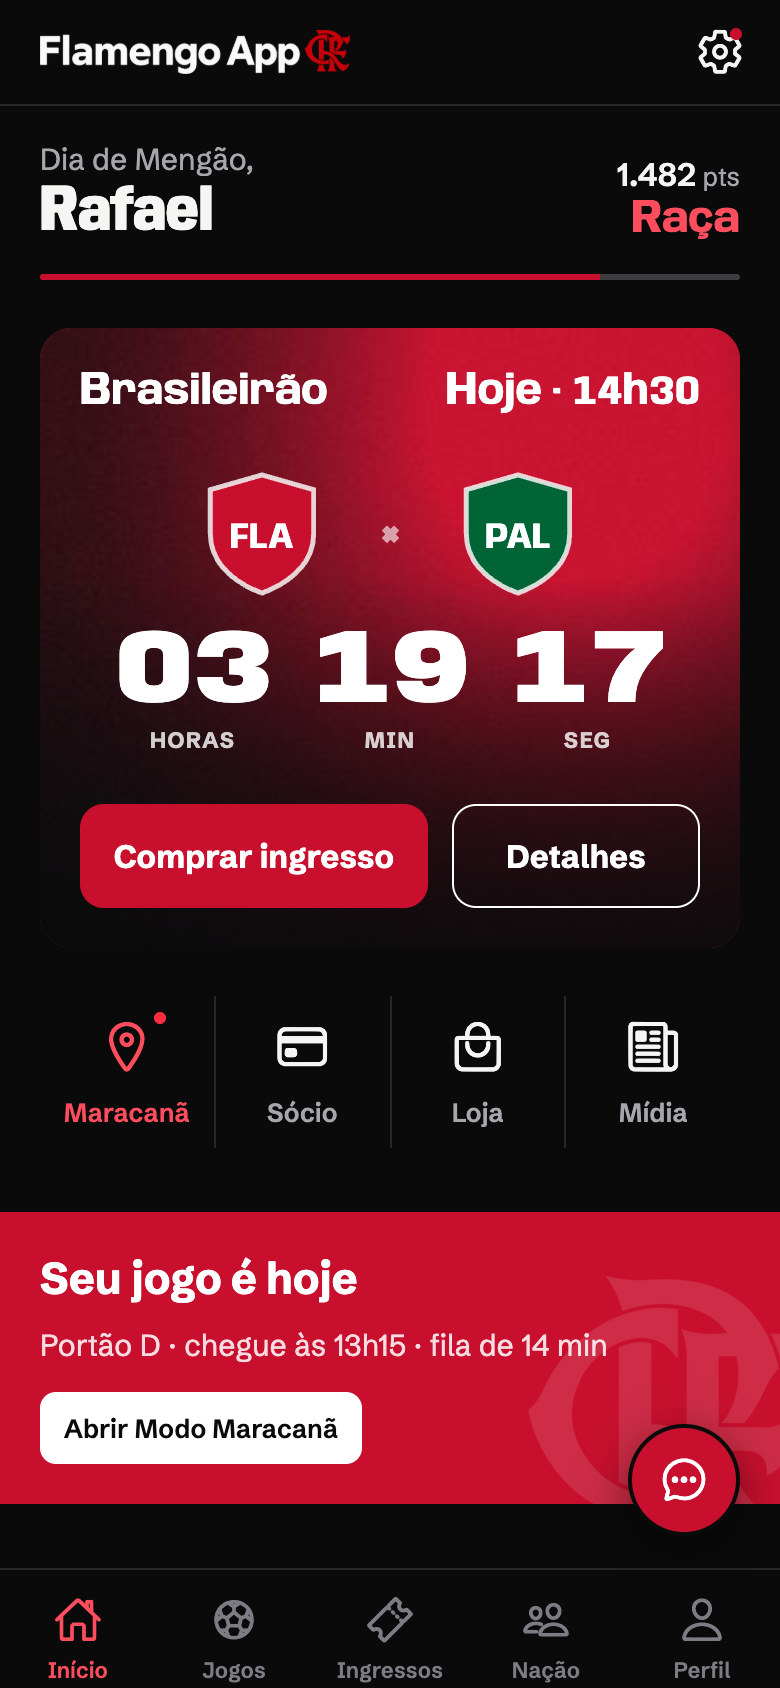
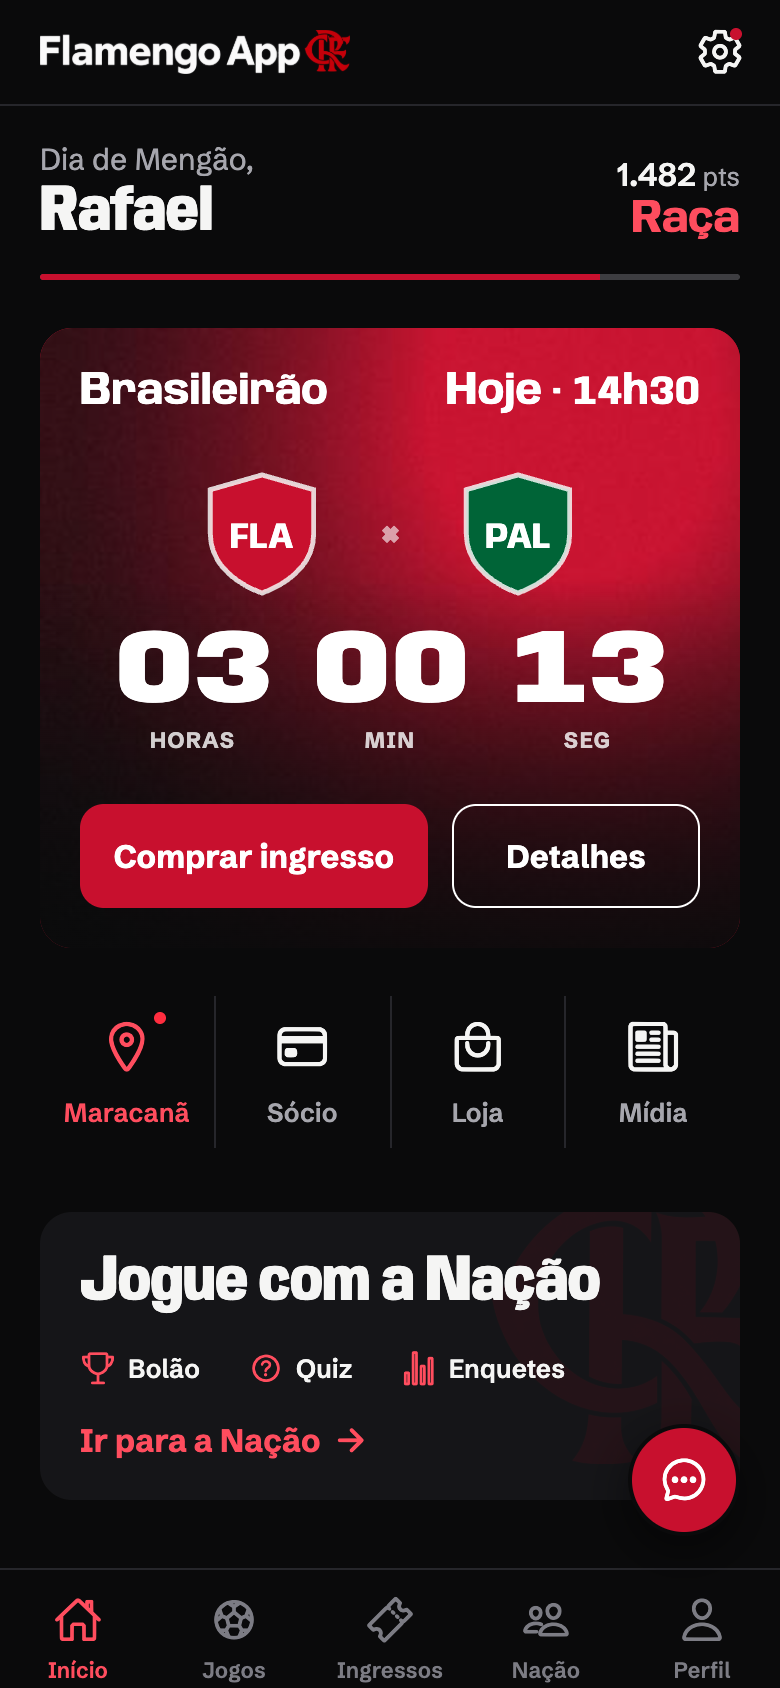
feat(home): nova ordem do feed e card da Nação enxuto
- sai o banner "Seu jogo é hoje" (e a busca do plano do dia)
- ordem: atalhos, Jogue com a Nação, Brasileirão, Notícias, FlaTV, Para você
- card da Nação só com título, Bolão, Quiz e Enquetes

Changed region(s): [[0.0, 0.7085, 1.0, 0.8934], [0.4, 0.3697, 0.5846, 0.4313], [0.7385, 0.3697, 0.8615, 0.4313]]

diff --git a/src/features/home/HomeScreen.tsx b/src/features/home/HomeScreen.tsx
@@ -23,7 +23,7 @@ import { useAppState } from '@/state/AppStateProvider';
 import { formatDuration, formatRelative } from '@/utils/format';
 import { HeroMatchCard } from './HeroMatchCard';
 import { useWelcomePopup } from './useWelcomePopup';
-import { DemoControlsSheet, HomeHeader, MatchdayBanner, NationInvite, QuickActions } from './HomeParts';
+import { DemoControlsSheet, HomeHeader, NationInvite, QuickActions } from './HomeParts';
 
 function isToday(iso: string) {
   return new Date(iso).toDateString() === new Date().toDateString();
@@ -88,10 +88,6 @@ export function HomeScreen() {
   const match = featured.data;
   useWelcomePopup(match);
   const matchday = !!match && match.status === 'scheduled' && isToday(match.kickoff);
-  const plan = useAsync(
-    async () => (matchday && match ? services.stadium.getMatchDayPlan(match.id) : undefined),
-    [matchday, match?.id]
-  );
 
   const refreshNotifications = notifications.refresh;
   useFocusEffect(
@@ -134,11 +130,9 @@ export function HomeScreen() {
         <QuickActions matchday={matchday} />
       </Reveal>
 
-      {matchday && match && (
-        <Reveal index={1} style={{ marginTop: 32 }}>
-          <MatchdayBanner match={match} plan={plan.data} />
-        </Reveal>
-      )}
+      <Reveal index={1} style={{ marginTop: 32 }}>
+        <NationInvite />
+      </Reveal>
 
       {match?.status === 'finished' && match.manOfTheMatchPollId && (
         <Reveal index={1} style={{ marginTop: 48, paddingHorizontal: layout.gutter }}>
@@ -147,6 +141,21 @@ export function HomeScreen() {
       )}
 
       <Reveal index={2} style={{ marginTop: 48 }}>
+        <SectionTitle
+          title="Brasileirão"
+          action="Tabela"
+          onAction={() => navigation.navigate('Standings', { competitionId: 'brasileirao' })}
+        />
+        {standings.loading || !standings.data ? (
+          <View style={{ paddingHorizontal: layout.gutter }}>
+            <Skeleton height={260} radius={8} />
+          </View>
+        ) : (
+          <StandingsTable table={standings.data} compact />
+        )}
+      </Reveal>
+
+      <Reveal index={3} style={{ marginTop: 48 }}>
         <SectionTitle title="Notícias" action="Ver todas" onAction={() => navigation.navigate('News')} />
         {news.error ? (
           <ErrorState compact onRetry={news.reload} />
@@ -176,7 +185,7 @@ export function HomeScreen() {
         )}
       </Reveal>
 
-      <Reveal index={3} style={{ marginTop: 48 }}>
+      <Reveal index={4} style={{ marginTop: 48 }}>
         <SectionTitle title="FlaTV" action="Ver todos" onAction={() => navigation.navigate('FlaTV')} />
         {videos.error ? (
           <ErrorState compact onRetry={videos.reload} />
@@ -193,7 +202,7 @@ export function HomeScreen() {
         )}
       </Reveal>
 
-      <Reveal index={4} style={{ marginTop: 48 }}>
+      <Reveal index={5} style={{ marginTop: 48 }}>
         <SectionTitle title="Para você" />
         {forYou.loading ? (
           <View style={{ paddingHorizontal: layout.gutter }}>
@@ -233,25 +242,6 @@ export function HomeScreen() {
               )
             )
         )}
-      </Reveal>
-
-      <Reveal index={5} style={{ marginTop: 48 }}>
-        <SectionTitle
-          title="Brasileirão"
-          action="Tabela"
-          onAction={() => navigation.navigate('Standings', { competitionId: 'brasileirao' })}
-        />
-        {standings.loading || !standings.data ? (
-          <View style={{ paddingHorizontal: layout.gutter }}>
-            <Skeleton height={260} radius={8} />
-          </View>
-        ) : (
-          <StandingsTable table={standings.data} compact />
-        )}
-      </Reveal>
-
-      <Reveal index={6} style={{ marginTop: 48 }}>
-        <NationInvite />
       </Reveal>
 
       {/* Assinatura discreta no fim do feed. */}

diff --git a/src/features/home/HomeParts.tsx b/src/features/home/HomeParts.tsx
@@ -3,14 +3,12 @@ import { useNavigation } from '@react-navigation/native';
 import { Modal, Pressable, View } from 'react-native';
 import { SafeAreaView } from 'react-native-safe-area-context';
 
-import { Button, LiveIndicator, Monogram, Text, useTheme } from '@/design-system';
+import { LiveIndicator, Monogram, Text, useTheme } from '@/design-system';
 import { useDemoMember } from '@/hooks/useMatch';
 import { DEMO_SCENARIOS, IS_DEMO, type DemoScenario } from '@/services';
 import { useAppState } from '@/state/AppStateProvider';
 import type { FanProgress } from '@/types/gamification';
-import type { MatchDetail } from '@/types/match';
-import type { MatchDayPlan } from '@/types/stadium';
-import { formatNumber, shiftTime } from '@/utils/format';
+import { formatNumber } from '@/utils/format';
 import { haptic } from '@/utils/haptics';
 import { DemoLocationPicker } from '@/features/maracana/DemoLocationPicker';
 
@@ -333,19 +331,14 @@ export function NationInvite() {
         marginHorizontal: layout.gutter,
         backgroundColor: colors.bgRaised,
         borderRadius: radius.l,
-        padding: 24,
-        gap: 20,
+        padding: 20,
+        gap: 16,
         overflow: 'hidden',
         opacity: pressed ? 0.85 : 1,
       })}
     >
       <Monogram width={160} opacity={0.08} style={{ position: 'absolute', right: -36, top: -28 }} />
-      <View style={{ gap: 8 }}>
-        <Text variant="displayM">Jogue com a Nação</Text>
-        <Text variant="bodyM" tone="secondary" style={{ maxWidth: 280 }}>
-          Monte seu bolão com os amigos, responda o quiz do dia e vote nas enquetes da torcida.
-        </Text>
-      </View>
+      <Text variant="displayM">Jogue com a Nação</Text>
       <View style={{ flexDirection: 'row', gap: 24 }}>
         {(
           [
@@ -367,42 +360,5 @@ export function NationInvite() {
         <Ionicons name="arrow-forward" size={18} color={colors.accentText} />
       </View>
     </Pressable>
-  );
-}
-
-/** Banner de dia de jogo (13.1.4): bloco vermelho em sangria, mascote cortado pela base. */
-export function MatchdayBanner({ match, plan }: { match: MatchDetail; plan?: MatchDayPlan }) {
-  const navigation = useNavigation();
-  const { colors, layout } = useTheme();
-  if (!plan) return null;
-  const arrival = shiftTime(match.kickoff, Number(plan.recommendedArrival));
-  const queue = plan.queues.find((q) => q.gateId === plan.recommendedGateId);
-  return (
-    <View
-      style={{ backgroundColor: colors.bgRed, padding: layout.gutter, overflow: 'hidden', minHeight: 140 }}
-    >
-      <Monogram
-        color="white"
-        width={150}
-        opacity={0.12}
-        style={{ position: 'absolute', right: -24, bottom: -30 }}
-      />
-      <View style={{ gap: 8, paddingRight: 64 }}>
-        <Text variant="titleL" tone="onPrimary">
-          Seu jogo é hoje
-        </Text>
-        <Text variant="bodyM" tone="onPrimary" style={{ opacity: 0.85 }}>
-          Portão {plan.recommendedGateId} · chegue às {arrival}
-          {queue ? ` · fila de ${queue.waitMinutes} min` : ''}
-        </Text>
-        <Button
-          label="Abrir Modo Maracanã"
-          variant="light"
-          size="sm"
-          onPress={() => navigation.navigate('StadiumMode')}
-          style={{ marginTop: 4 }}
-        />
-      </View>
-    </View>
   );
 }
